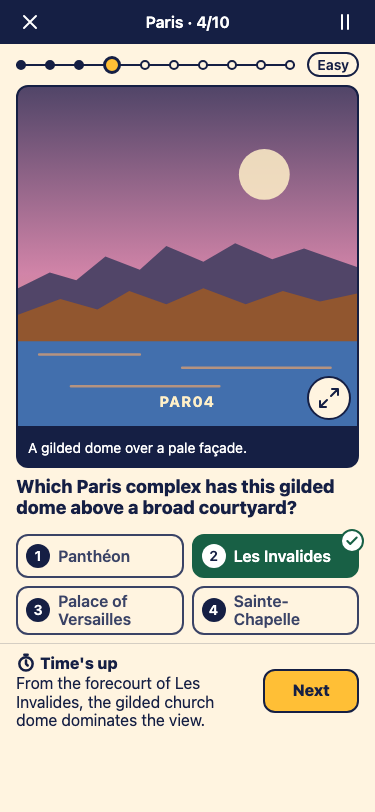
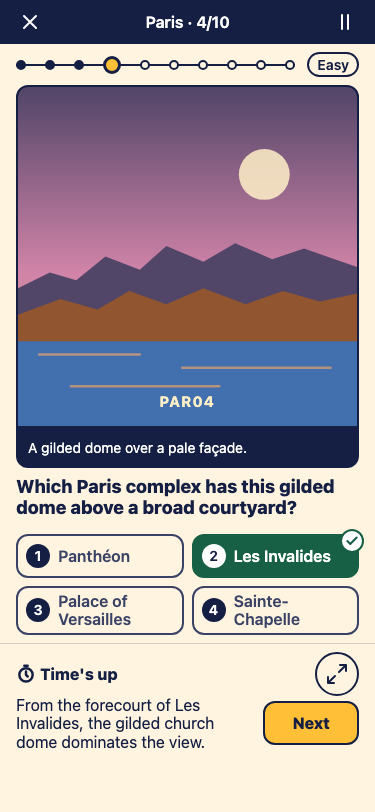
Show the result-band zoom in the design prototype and approved screenshots

Changed region(s): [[0.0293, 0.8005, 0.5867, 0.9236], [0.704, 0.8005, 0.968, 0.9236], [0.8213, 0.4618, 0.9387, 0.5234]]

diff --git a/docs/design/prototype/question.css b/docs/design/prototype/question.css
@@ -524,9 +524,37 @@ svg {
   line-height: var(--leading-tight);
 }
 
+/* Shown only in the portrait result, where it takes the place of the scene corner's zoom. */
+.result-zoom {
+  display: none;
+  position: static;
+}
+
 .next {
   grid-column: 2;
   grid-row: 1 / span 2;
+}
+
+/*
+ * Portrait result: the screen scrolls to the end of the result, which a long question, stacked choices or a long
+ * sentence can push the scene's corner under the bar for. The zoom moves into the band, in the row of the verdict above
+ * Next, so the sentence keeps its width and the band grows by the button's height at most.
+ */
+@media (orientation: portrait) {
+  [data-state='result'] .scene-box > .zoom-button {
+    display: none;
+  }
+
+  .result-zoom {
+    display: inline-grid;
+    grid-column: 2;
+    grid-row: 1;
+    justify-self: end;
+  }
+
+  .next {
+    grid-row: 2;
+  }
 }
 
 .primary,

diff --git a/docs/design/prototype/question.html b/docs/design/prototype/question.html
@@ -91,6 +91,9 @@
 
             <div class="result" role="status">
               <p class="result-verdict"><span class="result-icon"></span><span class="result-word"></span></p>
+              <button class="zoom-button result-zoom" type="button" data-text="zoom-label" aria-label="Enlarge the scene">
+                <svg viewBox="0 0 24 24" aria-hidden="true"><path d="M15 3h6v6M9 21H3v-6M21 3l-7 7M3 21l7-7" /></svg>
+              </button>
               <p class="result-sentence" data-text="sentence">From the forecourt of Les Invalides, the gilded church dome dominates the view.</p>
               <button class="primary next" type="button" data-text="next">Next</button>
             </div>

diff --git a/docs/design/README.md b/docs/design/README.md
@@ -3,7 +3,7 @@
 Klíčová obrazovka je otázka zastávky a její výsledek. Schválil ji arbitr 26. 11. 2026 ve třetím kole (záznam v [LOG.md](../decisions/LOG.md)). Ostatní obrazovky se z ní odvozují.
 
 - Prototyp: [prototype/question.html](prototype/question.html) a [prototype/question.css](prototype/question.css). Parametry `?state=question|result|result-correct|result-timeout|loading|error|fifty|untimed`, `&lang=cs`, `&focus=choice|next`.
-- Screenshoty: [approved/](approved/). Název je `<stav>.<jazyk>.<velikost>.png`. Výsledky automatické kontroly jsou v [approved/checks.txt](approved/checks.txt).
+- Screenshoty: [approved/](approved/). Název je `<stav>.<jazyk>.<velikost>[.focus-<prvek>][.dark].png`. Výsledky automatické kontroly jsou v [approved/checks.txt](approved/checks.txt).
 - Kontrola rozvržení: [check-layout.mjs](check-layout.mjs), spustí se `node docs/design/check-layout.mjs <url> <výstupní složka>` proti běžícímu Vite. Implementace v `src/` musí projít stejnými kontrolami.
 
 ## Co je závazné
@@ -25,7 +25,7 @@ Klíčová obrazovka je otázka zastávky a její výsledek. Schválil ji arbitr
 **Scéna.**
 - Čtverec s rámečkem. Velikost závisí jen na viewportu, nikdy na stavu.
 - Na 375 × 812 a větších má aspoň 304 px. Na nejmenších velikostech kolem 200 px (k potvrzení Petrem).
-- Tlačítko zvětšení je v pravém dolním rohu obrazu a musí být vidět v otázce i ve výsledku.
+- Tlačítko zvětšení je v otázce a na šířku v pravém dolním rohu obrazu. Ve výsledku na výšku je ve výsledkovém pásu (vedlejší ikonové tlačítko s obrysem, v řadě s verdiktem nad „Další“) a roh obrazu je prázdný, protože po posunu na konec výsledku by roh mohl zajet pod horní pruh. Zvětšení musí být vidět v otázce i ve výsledku, vždy právě jedno.
 - Pod zástupnou scénou je popis (`sceneAlt`).
 
 **Volby.**
@@ -34,7 +34,7 @@ Klíčová obrazovka je otázka zastávky a její výsledek. Schválil ji arbitr
 - Po 50:50 zůstanou odebrané pozice jako prázdná čárkovaná místa, mřížka se nepřeskládá.
 
 **Řádek akcí.**
-- Čas a žolíky, po odpovědi místo nich verdikt slovem i symbolem, věta o místě a jediné plné tlačítko „Další“.
+- Čas a žolíky, po odpovědi místo nich verdikt slovem i symbolem, věta o místě a jediné plné tlačítko „Další“ (na výšku nad ním vedlejší tlačítko zvětšení).
 - Řádek je přilepený ke spodní hraně. Když pod ním pokračuje obsah, má nad sebou stín (`has-more`) a první skrytá volba vykukuje.
 - Po odpovědi se obsah posune tak, aby výsledek nic nepřekrýval.
 - Žolíky jsou vedlejší tlačítka s obrysem. Použitý žolík je čárkovaný a přeškrtnutý.
